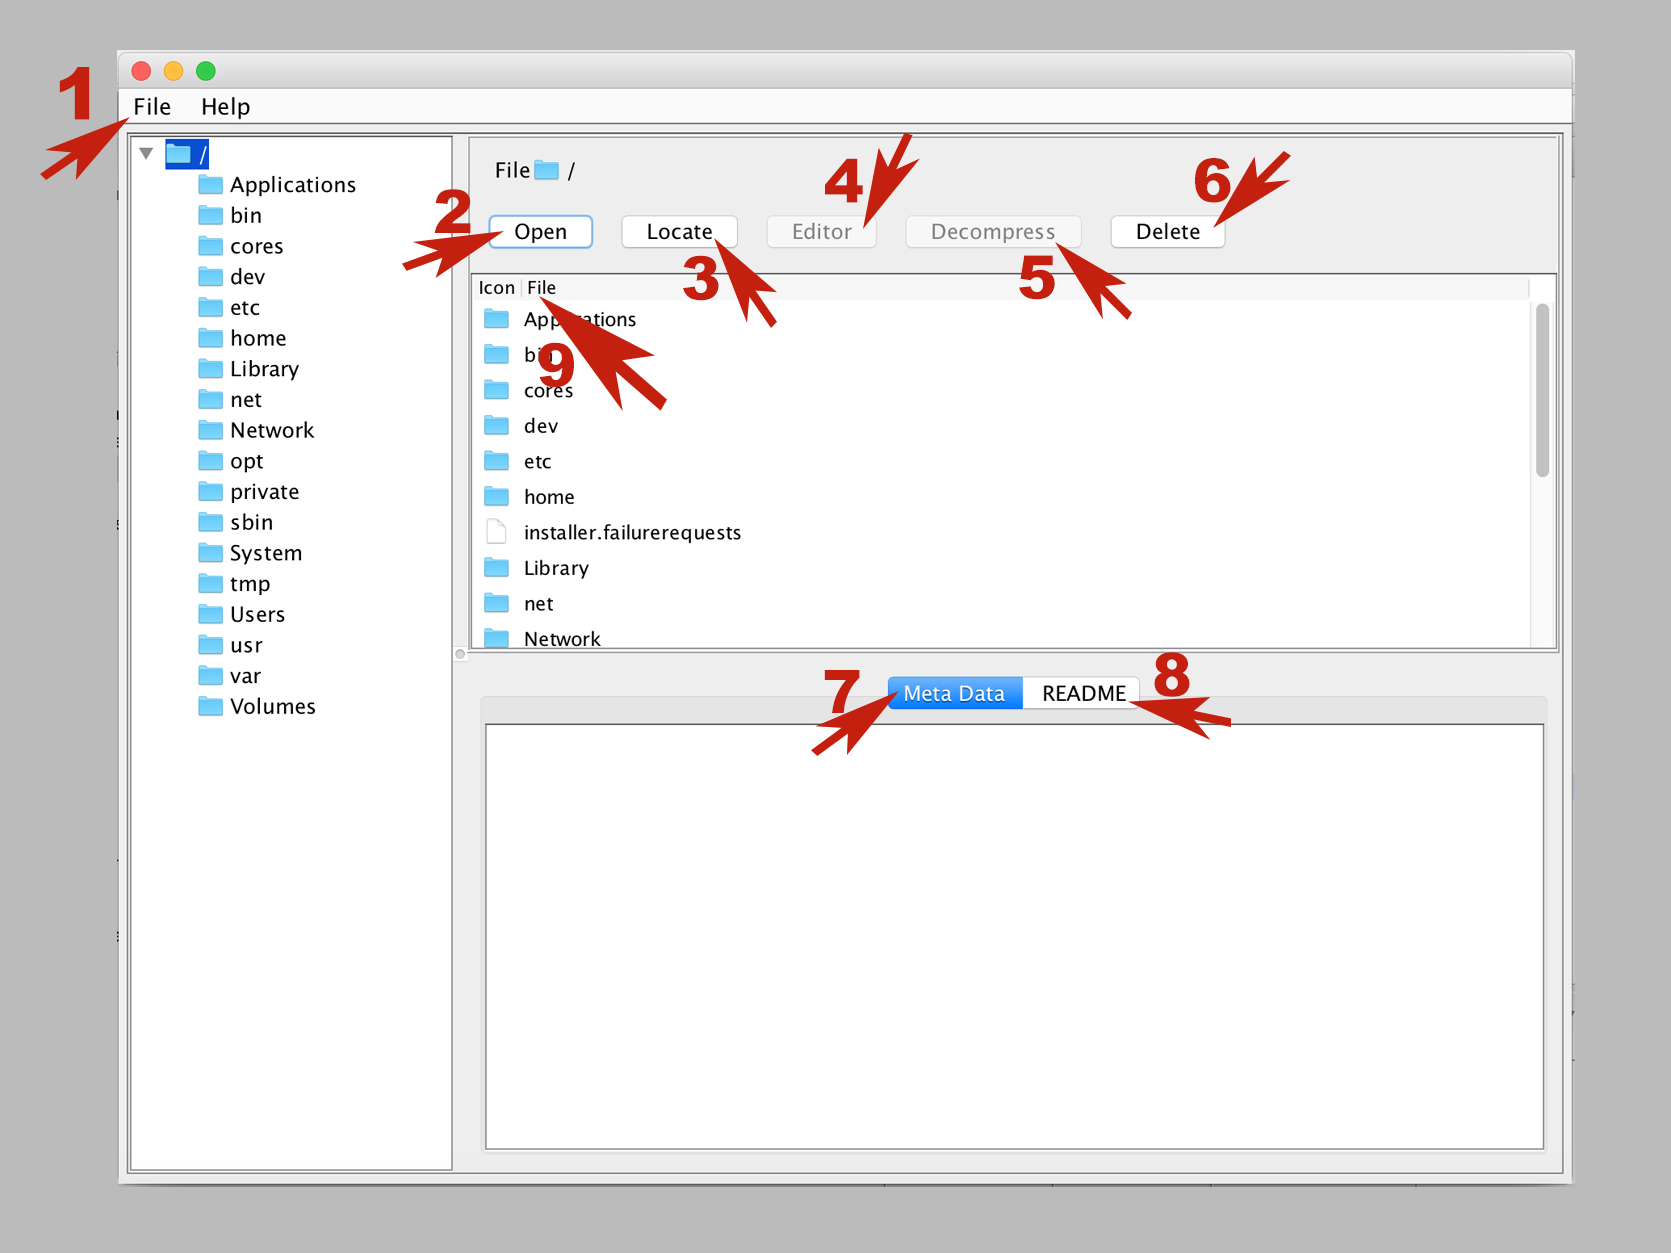
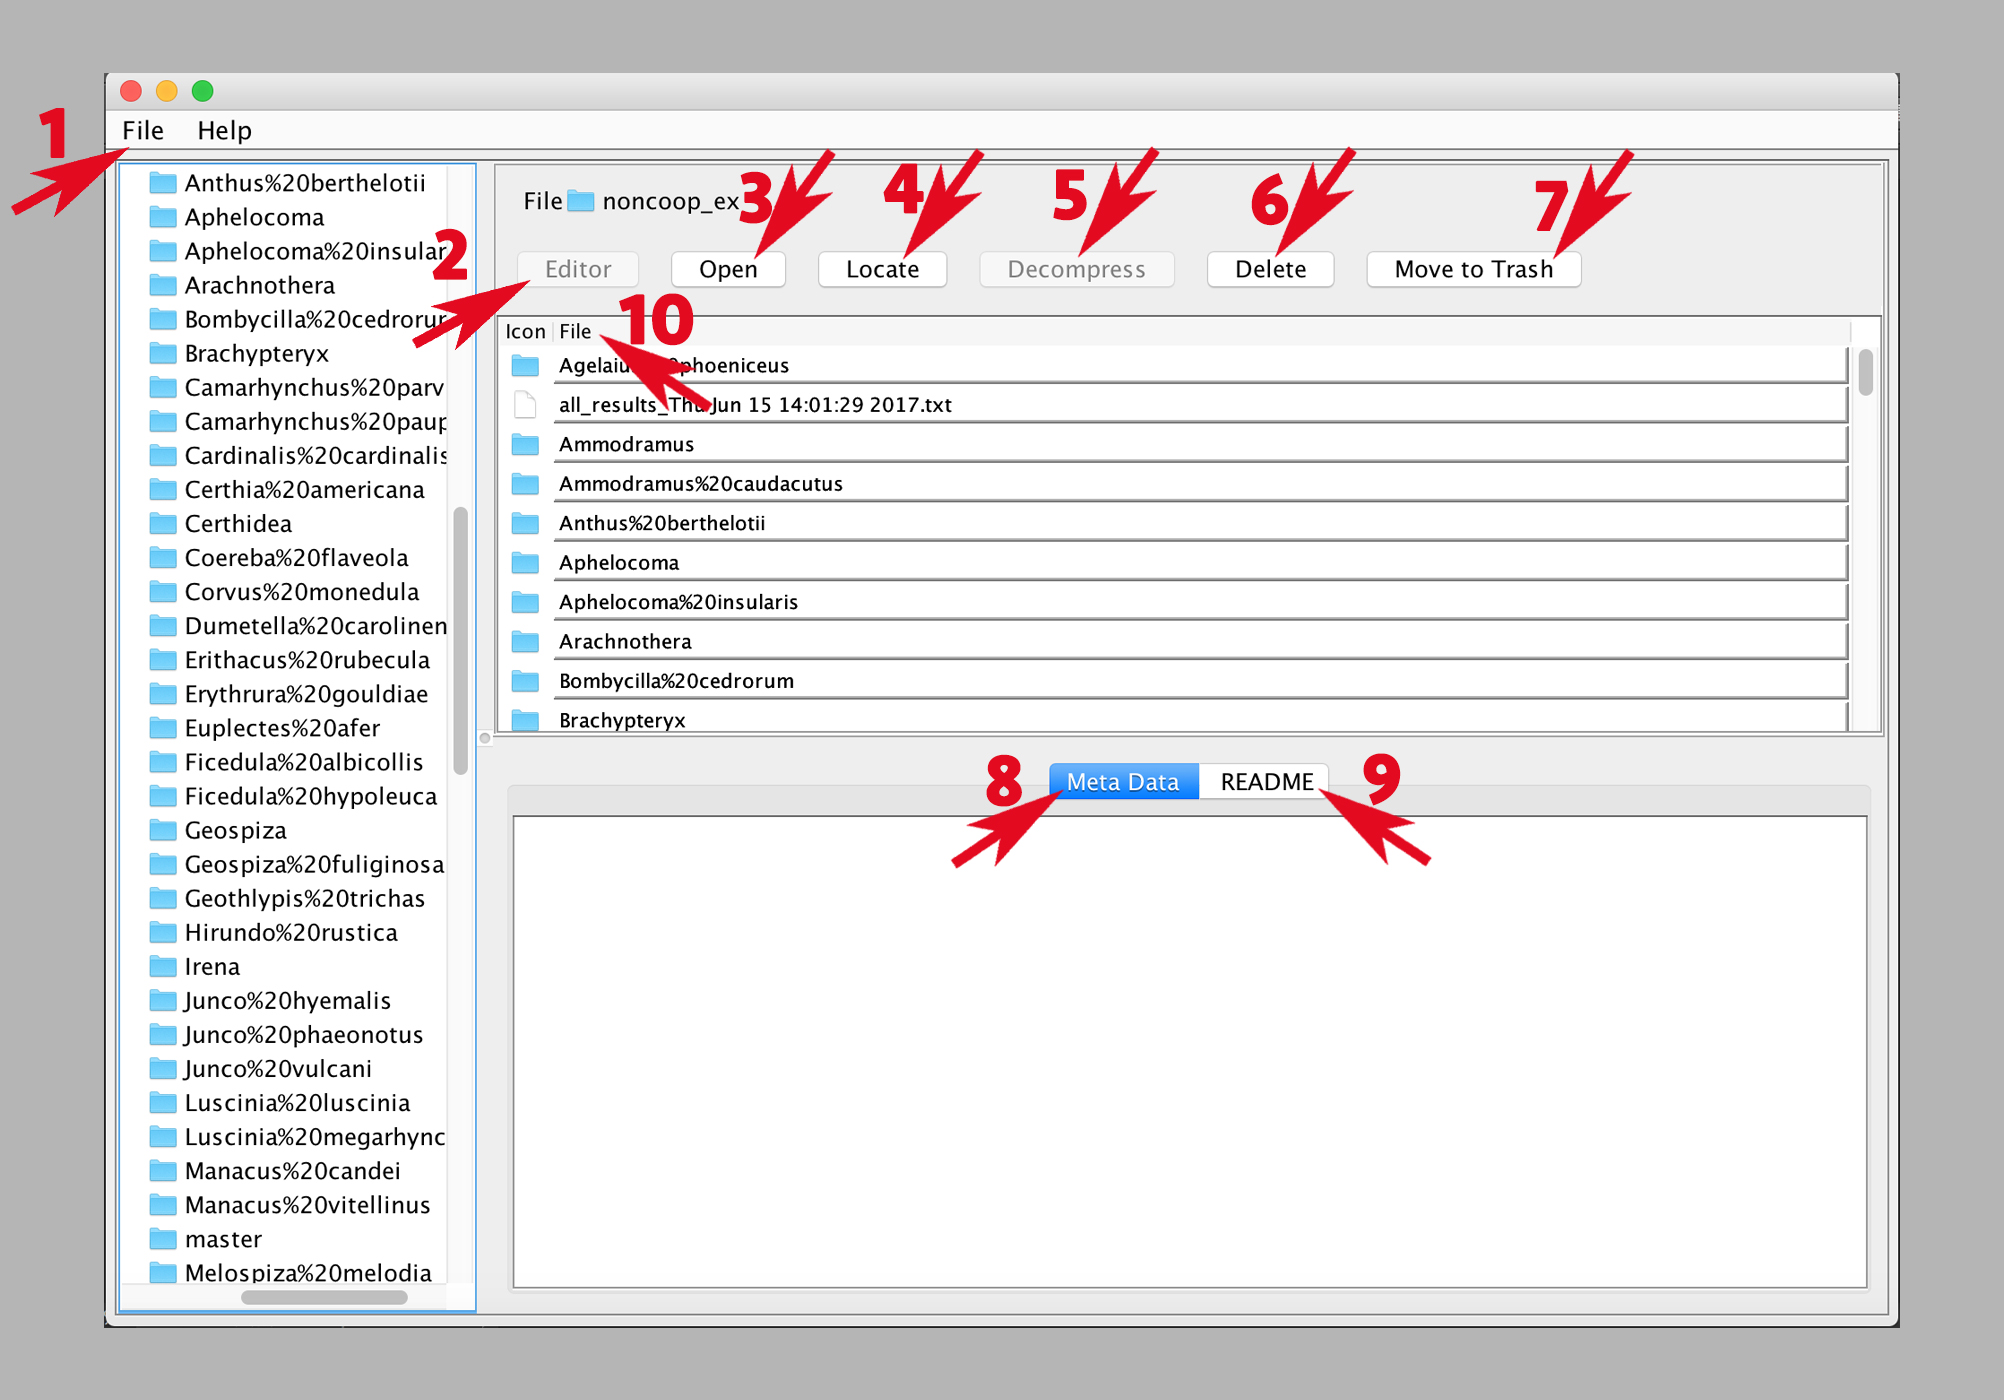
update help menu

Changed region(s): [[0.0, 0.0311, 0.9647, 0.9649]]

diff --git a/data/src/Resources/EditorHelpPage.html b/data/src/Resources/EditorHelpPage.html
@@ -12,14 +12,15 @@
 			<li>Delete every second headers: delete every second cell in the given row.</li>
 			<li>Add text to column: add the given text to the end of every cell in the given column.</li>
 		</ul>
-		<p>4.Remove columns/rows: the drop down boxes allow users to select one column/row each time. The two input boxes below allow users to select all columns/rows in the given range. All the selected columns/rows will show in the table ("Columns/Rows to remove"). Click "Delete" to remove the selected column/row from the table("Columns/Rows to remove").</p>
+		<p>4.Remove columns/rows: the drop down boxes allow users to select one column/row each time. The two input boxes below allow users to select all columns/rows in the given range. The button "Seect rows by text sequences" allow users to select rows by providing a column index and a text sequent. All the selected columns/rows will show in the table ("Columns/Rows to remove"). Click "Delete" to remove the selected column/row from the table("Columns/Rows to remove").</p>
 		<p style="font-family: Arial;color: red">* After doing 3 and 4, users need to click "Save" to see the changes happened on the right side data table.</p>
 		<P>5. Execute buttons</P>
 		<ul>
 			<li>Save: save the file and all the changes will be made in the file.</li>
 			<li>Save as: save the file with a new name and the original file will be keeped, but the file's type can't be changed.</li>
 			<li>Clear: clear all changes(at the left side of editor window) that haven't been saved yet.</li>
-			<li>Fast convert: convert the current file from STRUCTURE to GENEPOP without opening the PGDSpider graphic user interface. This function will ask users to provide the missing data as well as the number of markers(loci), if the user didn't input anything, the missing value will be 0 by default and the program will calculate the number of markers(loci) using the number of columns.</li>
+			<li>Fast convert: convert the current file from STRUCTURE to GENEPOP without opening the PGDSpider graphic user interface. This function will ask users to provide the missing data as well as the number of markers(loci), if the user didn't input anything, the missing value will be 0 by default and the program will calculate the number of markers(loci) using the number of columns. The output file location would be the same
+			as the input file location by default, users could also set the output file location by clicking "Destination Folder".</li>
 			<li>Close: close the editor window, please make sure all changes have been saved before closing.</li>
 		</ul>
 		<br>

diff --git a/data/src/Resources/DirectoryHelpPage.html b/data/src/Resources/DirectoryHelpPage.html
@@ -3,14 +3,15 @@
 <body>
 	<div style="position: relative;font-family:Arial;font-size: 12px;">
 		<p>1. File: set the log file location.</p>
-		<p>2. Open: open a file with it's default application.</p>
-		<p>3. Locate: open the folder that contain the file.</p>
-		<p>4. Editor: open a new window and edit the file's foramt.</p>
+		<p>2. Editor: open a new window and edit the file's foramt.</p>
+		<p>3. Open: open a file with it's default application.</p>
+		<p>4. Locate: open the folder that contain the file.</p>
 		<p>5. Decompress: decompress zip, tar file, if the folder has already exist, the new folder will cover the old one.</p>
 		<p>6. Delete: delete the file permanently.</p>
-		<p>7. Meta Data tab show all meta data files in the current folder.</p>
-		<p>8. README tab show all README files in this folder.</p>
-		<p>9. The "Icon" and "File" labels in the left side file table allow users to sort files by type or by name.</p>
+		<p>7. Move to Trash: move the file to trash</p>
+		<p>8. Meta Data tab show all meta data files in the current folder.</p>
+		<p>9. README tab show all README files in this folder.</p>
+		<p>10. The "Icon" and "File" labels in the left side file table allow users to sort files by type or by name.</p>
 		<br>
 		<p>* If the log file location has been setted, all the delete action will be record in the "logDelete.txt".</p>
 	</div>
@@ -18,7 +19,7 @@
 	<img src="directory.jpg" alt="directory" width="950" height="750"  max-width: 100%;
     max-height: 100%;">
     <br><br><br>
-    <img src="directory2.png" alt="directory2" width="950" height="750"  max-width: 100%;
+    <img src="directory2.jpg" alt="directory2" width="950" height="750"  max-width: 100%;
     max-height: 100%;">
 </body>
 </html>
